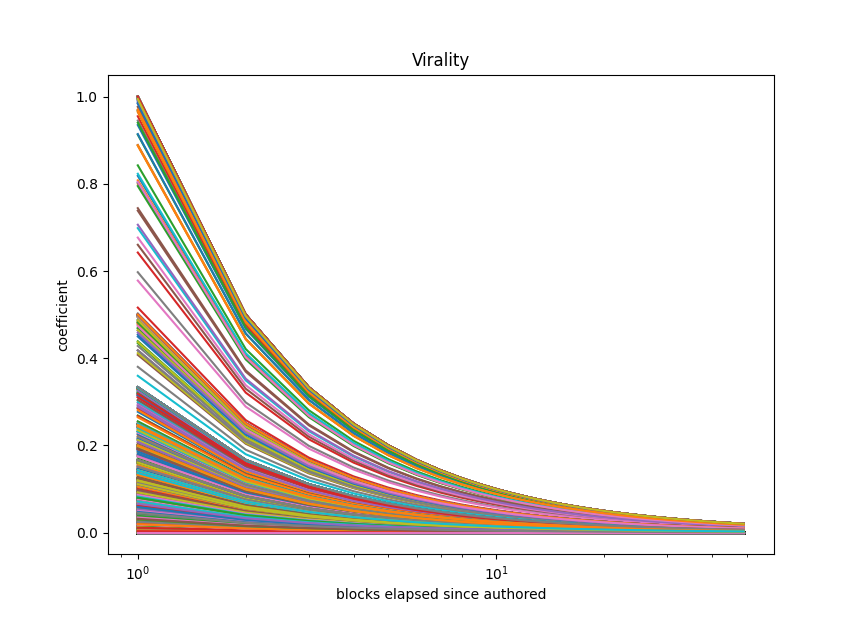
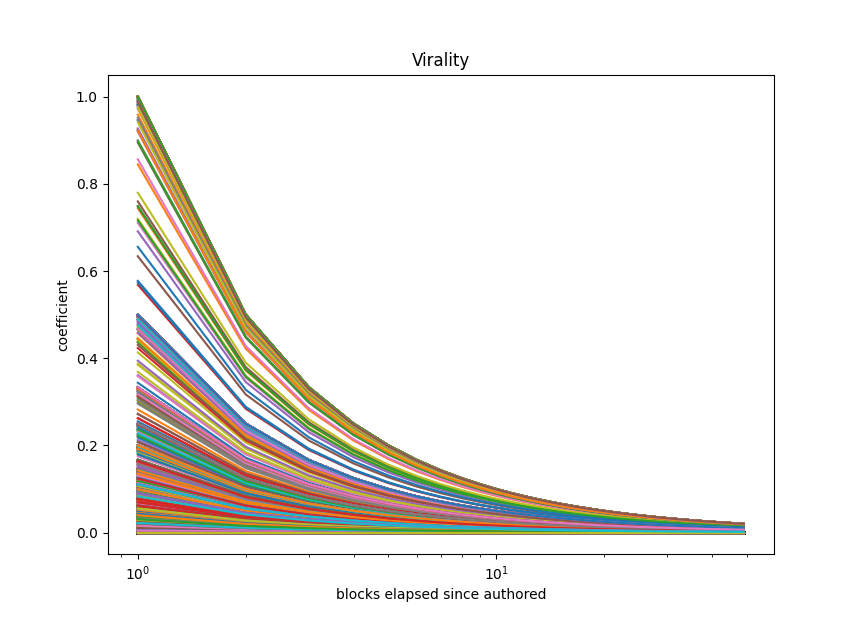
feat: Updating minimum virality requirement to have at least 2 likes & 2 resqueaks

Changed region(s): [[0.1512, 0.1525, 0.8767, 0.8844]]

diff --git a/virality/sample_data.py b/virality/sample_data.py
@@ -8,9 +8,9 @@ squeaks = [
     },
     {
         "label": "minimum virality requirement",
-        "likes": 1,
+        "likes": 3,
         "dislikes": 0,
-        "resqueaks": 1,
+        "resqueaks": 3,
     },
     {
         "label": "liked",
@@ -20,7 +20,7 @@ squeaks = [
     },
     {
         "label": "disliked",
-        "likes": 2,
+        "likes": 3,
         "dislikes": 188,
         "resqueaks": 34,
     },

diff --git a/virality/main.py b/virality/main.py
@@ -5,8 +5,8 @@ from sample_data import squeaks
 
 
 def limit(x, squeak):
-    if squeak["likes"] > 0 and squeak["resqueaks"] > 0:
-        return 1 / ((x) + virality(squeak))
+    if squeak["likes"] > 2 and squeak["resqueaks"] > 2:
+        return 1 / (x + virality(squeak))
     return 0 / x
 
 
